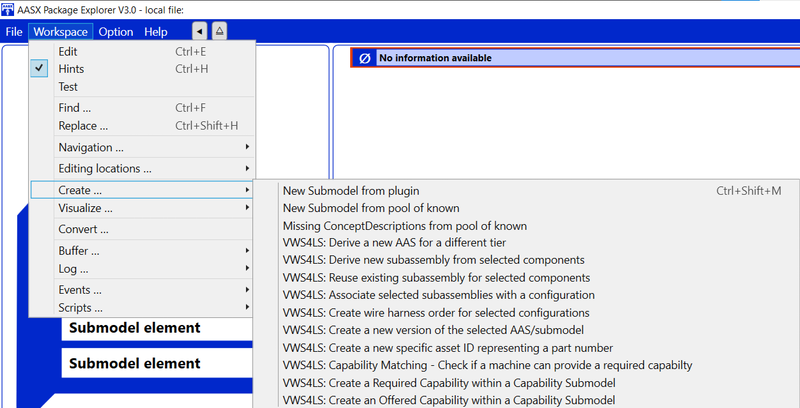
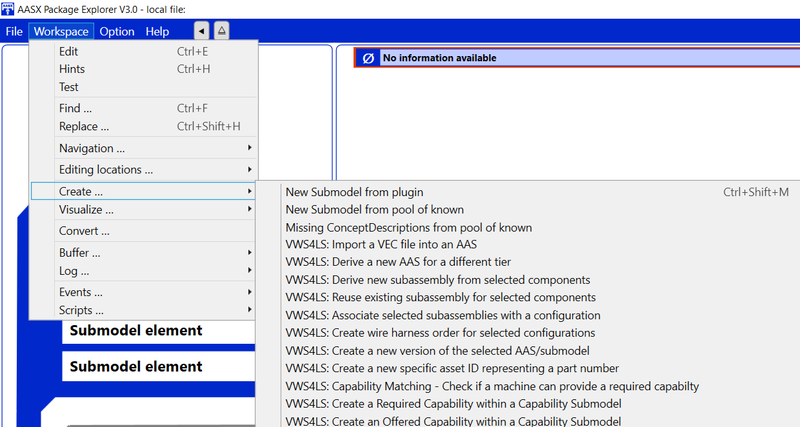
Add description of the 'VEC import' action to the readme

Changed region(s): [[0.0, 0.0, 1.0, 1.0], [0.2188, 0.2353, 0.3125, 0.3235], [0.0, 0.5, 0.0312, 0.5294]]

diff --git a/README.md b/README.md
@@ -74,6 +74,21 @@ Ontop of the basic concept, a set of capabilities and associated parameters was 
 
 ## Provided Actions
 
+### VWS4LS: Import a VEC file into an AAS
+
+The *Vehicle Electric Container* (VEC, see [https://ecad-wiki.prostep.org/specifications/vec/](https://ecad-wiki.prostep.org/specifications/vec/)) is specification that allows to create a detailed product model of a wire harness that can - among others - be serialized as XML. To incorporate such a product specification into the AAS ecosystem, the plugin provides the action `Import a VEC file into an AAS`.
+
+This will
+- create two submodels *Product_BOM* and *Configuration_BOM* (cf. [Description of complex product structures](#description-of-complex-product-structures)) that describe the components and configurations that the wire harness represented by the VEC file consists of and
+- create a *ProductSpecification* submodel that
+  - imports the VEC file and
+  - creates several links between the elements from the new *Product_BOM* and *Configuration_BOM* submodels and the elements within the VEC file.
+
+To execute the action, follow the following steps:
+- Select an existing AAS
+- Execute`Workspace -> Create... -> VWS4LS: Import a VEC file into an AAS`
+- Select the VEC file to be imported
+
 ### VWS4LS: Derive a new AAS for a different tier
 
 To support the workflow of importing data from an existing AAS and creating an equivalent AAS under one's own ownership (see [Linking of equivalent AASes/assets](#linking-of-equivalent-aasesassets)), the plugin provides the action `Derive a new AAS for a different tier`. 
@@ -84,7 +99,7 @@ This will create a new AAS that contains
 - a deep copy of all submodels from the existing AAS
 
 To execute the action, follow the following steps:
-- Select an AAS existing AAS in the *AASPE*
+- Select an existing AAS in the *AASPE*
 - Execute `Workspace -> Create... -> VWS4LS: Derive a new AAS for a different tier`
 - Fill in the required fields in the dialog
     - Name of the Derived AAS: The name of the new AAS to be created
